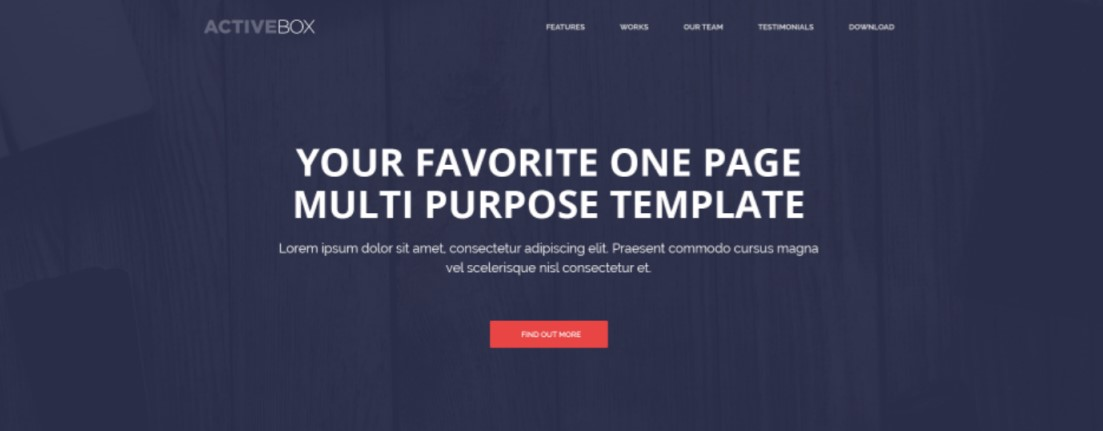
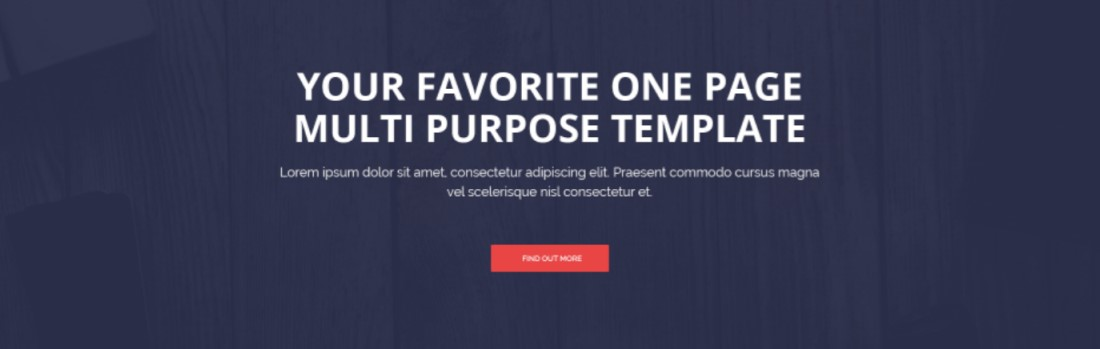
Add files via upload

diff --git a/index.html b/index.html
@@ -11,6 +11,30 @@
     <title>MD FARUK HOSSEN</title>
   </head>
   <body>
+
+
+<ul class="nav justify-content-end">
+<li class="nav-item">
+    <a class="nav-link active" aria-current="page" href="#">ACTIVEBOX</a>
+  </li>
+  <li class="nav-item">
+    <a class="nav-link active" aria-current="page" href="#">FEATURES</a>
+  </li>
+  <li class="nav-item">
+    <a class="nav-link active" aria-current="page" href="#">WORKS</a>
+  </li>
+<li class="nav-item">
+    <a class="nav-link active" aria-current="page" href="#">OURTEAM</a>
+  </li>
+<li class="nav-item">
+    <a class="nav-link active" aria-current="page" href="#">TESTIMONIALS</a>
+  </li>
+<li class="nav-item">
+    <a class="nav-link active" aria-current="page" href="#">DOWNLOAD</a>
+  </li>
+</ul>
+
+
 <div id="carouselExampleControls" class="carousel slide" data-bs-ride="carousel">
   <div class="carousel-inner">
     <div class="carousel-item active">
